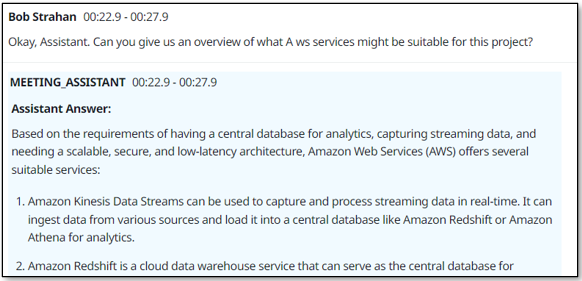
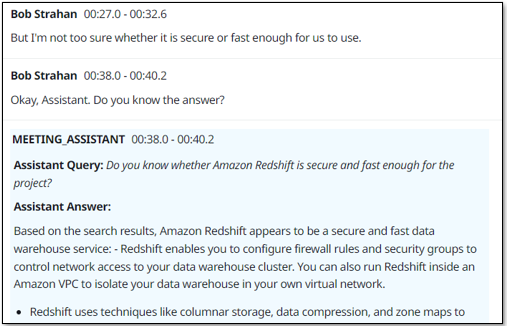
Prepend 'query' to the assistant's answers for added context showing the question it thinks it should answer

Changed region(s): [[0.0, 0.0, 1.0, 1.0]]

diff --git a/lma-meetingassist-setup-stack/README.md b/lma-meetingassist-setup-stack/README.md
@@ -89,14 +89,16 @@ A JSON object with several parameters is in the **Argument** field.
 The default Argument value string is the following JSON:
 
 ```
-{"Prompt":"Assistant, what is a good response?", "Prefix":"Assistant Answer:", "ShowContextText":true, "ShowSourceLinks":true}
+{"Prompt":"Assistant, what is a good response?", "AnswerPrefix":"Assistant Answer:", "QueryPrefix":"Assistant Query:", "ShowContextText":true, "ShowSourceLinks":true}
 ```
 
 The fields are:
 - Key: "Prompt", Value: "Assistant, what is a good response?"
     - This is the default prompt for 'Ask Assistant', it is interpreted (by an LLM inference) in the context of the meeting transcript. The intention of this prompt is to simply advise the LMA user what might be a good thing to say next, given the topics being discussed and how the meeting is going. 
-- Key: "Prefix", Value: "Assistant Answer:"
-    - This is a message to prefix to the response returned by Knowledge base. 
+- Key: "AnswerPrefix", Value: "Assistant Answer:"
+    - This is a message to prefix to the response returned by Knowledge base.
+- Key: "QueryPrefix", Value: "Assistant Query:"
+    - If set, the *Assistant Query* is prefixed to the answer, clearly showing the question that the assistant answers. Remove this key to disable the *Assistant Query* prefix.
 - Key: "ShowContextText": Value: true
     - Include relevant passage snippets from your Knowledge Base, used to generate the response. 
 - Key: "ShowSourceLinks": Value: true
